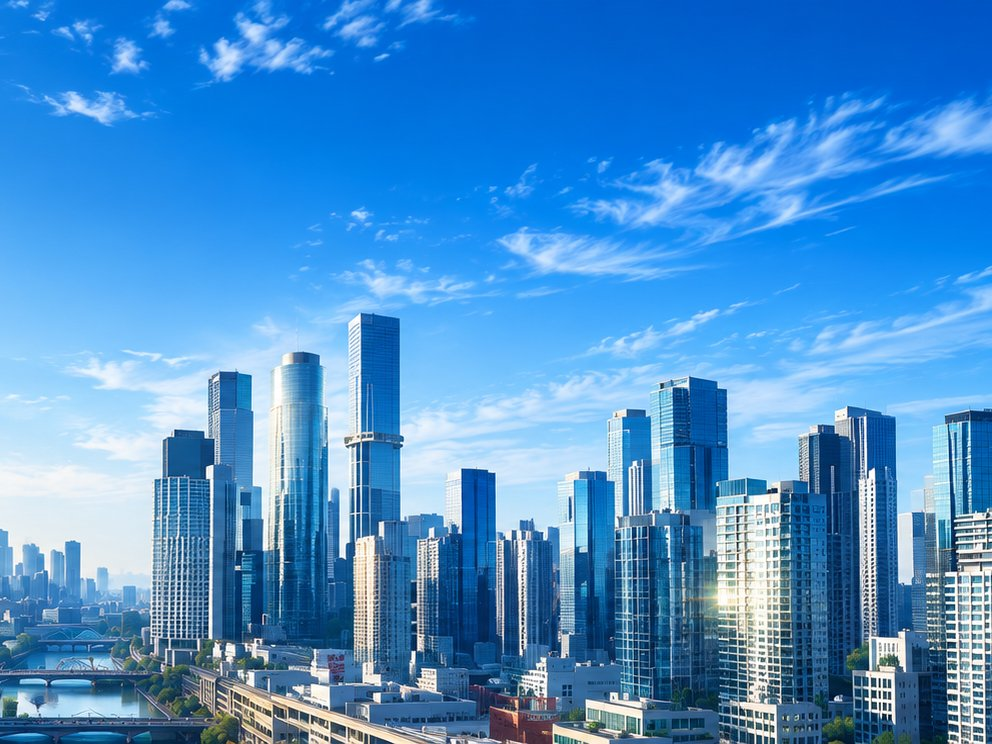
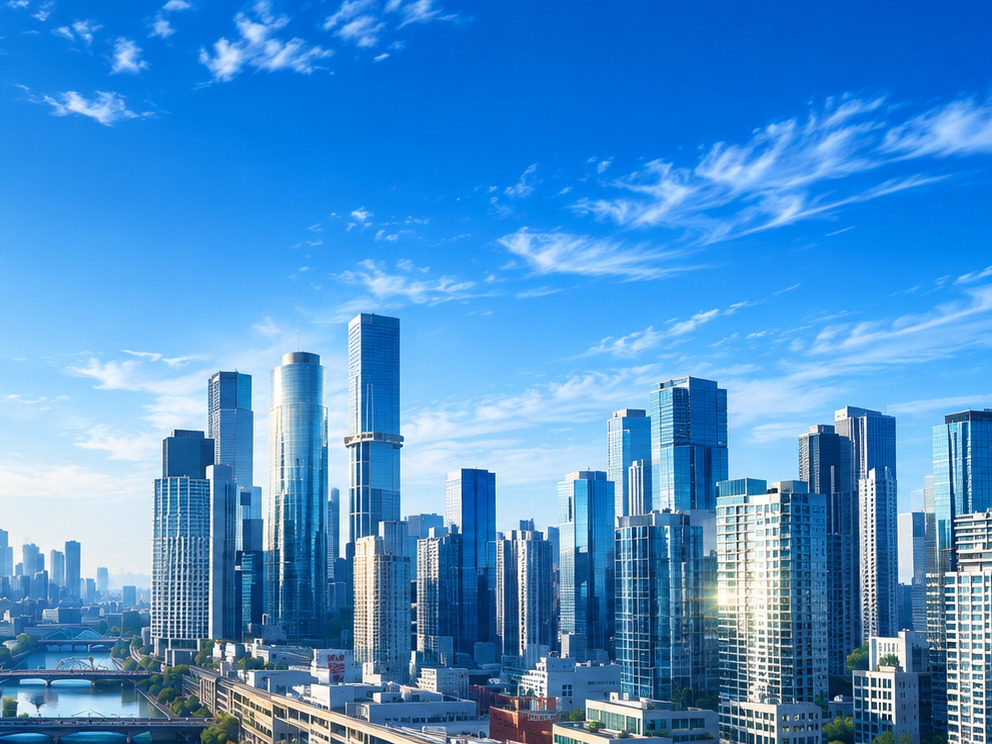
FV画像を高画質化・左側オーバーレイをさらに明るく調整
- 画像を再書き出し（quality 85→92-94, subsampling無効で空の劣化抑制）
- 左オーバーレイの不透明度を軽減（左端0.58→0.34）し左側の暗さを解消
- 白文字の可読性維持のためテキストシャドウを微強化

Changed region(s): [[0.625, 0.6183, 0.6562, 0.6801]]

diff --git a/assets/css/style.css b/assets/css/style.css
@@ -173,8 +173,8 @@ ul, ol { list-style: none; }
   inset: 0;
   z-index: 1;
   background:
-    linear-gradient(90deg, rgba(13, 42, 74, 0.58) 0%, rgba(13, 42, 74, 0.34) 36%, rgba(13, 42, 74, 0.04) 66%, rgba(13, 42, 74, 0) 100%),
-    linear-gradient(0deg, rgba(13, 42, 74, 0.28) 0%, rgba(13, 42, 74, 0) 28%);
+    linear-gradient(90deg, rgba(13, 42, 74, 0.34) 0%, rgba(13, 42, 74, 0.18) 40%, rgba(13, 42, 74, 0.02) 70%, rgba(13, 42, 74, 0) 100%),
+    linear-gradient(0deg, rgba(13, 42, 74, 0.20) 0%, rgba(13, 42, 74, 0) 26%);
 }
 .hero-accent-orb { display: none; }
 .hero-inner { position: relative; z-index: 2; }
@@ -195,7 +195,7 @@ ul, ol { list-style: none; }
 }
 .hero .hero-title {
   color: #ffffff;
-  text-shadow: 0 2px 28px rgba(13, 42, 74, 0.45);
+  text-shadow: 0 2px 18px rgba(13, 42, 74, 0.6), 0 1px 3px rgba(13, 42, 74, 0.5);
 }
 .hero-title .accent {
   background: linear-gradient(92deg, #4da3ff 0%, #7fe3ff 100%);
@@ -205,8 +205,8 @@ ul, ol { list-style: none; }
   color: transparent;
 }
 .hero .hero-lead {
-  color: rgba(255, 255, 255, 0.94);
-  text-shadow: 0 1px 18px rgba(13, 42, 74, 0.5);
+  color: rgba(255, 255, 255, 0.96);
+  text-shadow: 0 1px 12px rgba(13, 42, 74, 0.65), 0 1px 2px rgba(13, 42, 74, 0.5);
 }
 .hero .btn-outline {
   color: #fff;
